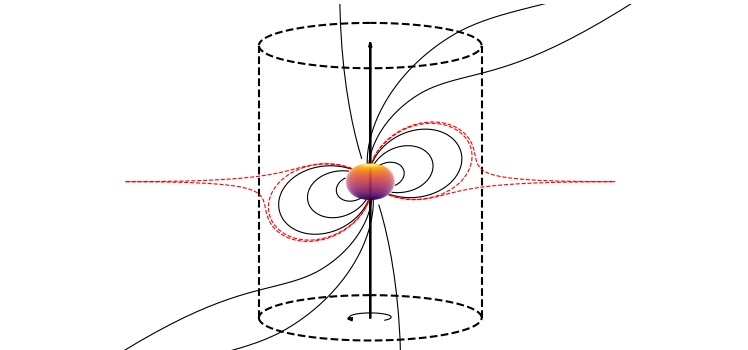
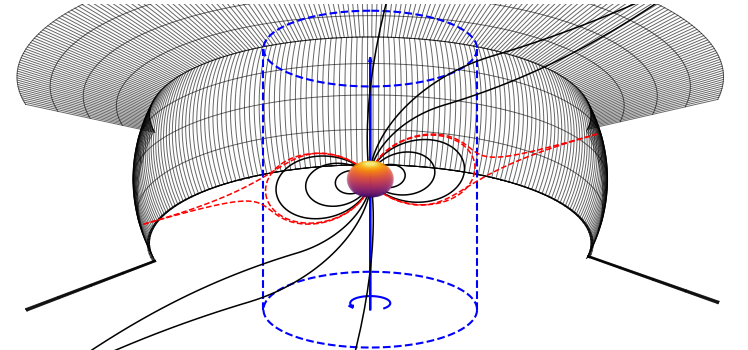
beautify disk

diff --git a/fig_pulsar.py b/fig_pulsar.py
@@ -32,10 +32,10 @@ ax.set_aspect('equal')
 #ax.set_title('Pulsar', size=18)
 
 #image dimensions
-xmin = -14.6
-xmax =  14.6
-ymin = -6.8
-ymax =  7.2
+xmin = -15.0
+xmax =  15.0
+ymin = -7.2
+ymax =  7.4
 
 xlen = xmax-xmin
 ylen = ymax-ymin
@@ -74,21 +74,6 @@ fmtO={'color':'red','linestyle':'solid',}
 # STAR
 
 if True:
-    #Nlines = 10
-    #for sweeps in np.linspace(0.0, 2.0*pi, Nlines):
-    #    ax=nspy.draw_longitude(ax, sweeps,  0.0, pi/2.0, fmt=fmt)
-    #    ax=nspy.draw_longitude(ax, sweeps,  pi/2.0, pi, fmt=fmt) #bottom
-    #
-    #    ax=nspy.draw_longitude(ax, sweeps,  0.0, pi/2.0, fmt=fmtb, backside=True)
-    #    ax=nspy.draw_longitude(ax, sweeps,  pi/2.0, pi,  fmt=fmtb, backside=True) #bottom
-    #
-    #
-    #Nlines = 10
-    #for sweeps in np.linspace(0.0, pi, Nlines):
-    #    ax=nspy.draw_latitude(ax, sweeps, fmt=fmt)
-    #    ax=nspy.draw_latitude(ax, sweeps, backside=True, fmt=fmtb)
-    
-
 
     #coloring
     if True:
@@ -105,19 +90,36 @@ if True:
             fmtS['facecolor'] = cmap(i / float(Ns-1) )
             ax = nspy.draw_spot(ax, spot_phi, spot_theta, rho, fmt=fmtS)
 
+    #draw outline
+    if False:
+        Nlines = 10
+        for sweeps in np.linspace(0.0, 2.0*pi, Nlines):
+            ax=nspy.draw_longitude(ax, sweeps,  0.0, pi/2.0, fmt=fmt)
+            ax=nspy.draw_longitude(ax, sweeps,  pi/2.0, pi, fmt=fmt) #bottom
+        
+            ax=nspy.draw_longitude(ax, sweeps,  0.0, pi/2.0, fmt=fmtb, backside=True)
+            ax=nspy.draw_longitude(ax, sweeps,  pi/2.0, pi,  fmt=fmtb, backside=True) #bottom
+        
+        
+        Nlines = 10
+        for sweeps in np.linspace(0.0, pi, Nlines):
+            ax=nspy.draw_latitude(ax, sweeps, fmt=fmt)
+            ax=nspy.draw_latitude(ax, sweeps, backside=True, fmt=fmtb)
+
 #-----------------------------------------------------
 # DISK
 
 if True:
+    fmtD={'color':'k','linestyle':'solid', 'lw': 0.7, 'alpha':0.6}
+
+
     # equatorial disk
     #slice_thick = 0.8
-    slice_thick = pi/2. - 0.4
+    slice_thick = pi/2. - 0.2
     disk_start= 0.0    + slice_thick
     disk_stop = 2.0*pi - slice_thick
     
-    
-    diskH=0.050
-    
+    diskH=0.300
     inner_disk = 10.0
     outer_disk = 16.0
     
@@ -129,6 +131,7 @@ if True:
                         r_start = inner_disk,
                         r_stop = outer_disk,
                         theta = pi/2-diskH,
+                        fmt=fmtD
                         )
     
     #disk rim
@@ -138,7 +141,21 @@ if True:
                         Nphi = 80,
                         r_start = inner_disk,
                         r_stop = inner_disk+0.1,
-                        theta = pi/2.0+diskH
+                        theta = pi/2.0+diskH,
+                        fmt=fmtD
+                        )
+
+    #interior pattern
+    ax = nspy.draw_disk_interior(
+                        ax,
+                        phi_start= disk_start,
+                        phi_stop = disk_stop,
+                        Nphi = 150,
+                        Nthe = 5,
+                        r_start = inner_disk,
+                        theta_up = pi/2.0-diskH,
+                        theta_dw = pi/2.0+diskH,
+                        fmt=fmtD
                         )
     
     #right bottom
@@ -148,7 +165,8 @@ if True:
                         Nphi = 10,
                         r_start = inner_disk,
                         r_stop = outer_disk,
-                        theta = pi/2.0+diskH
+                        theta = pi/2.0+diskH,
+                        fmt=fmtD
                         )
     
     #left bottom
@@ -158,15 +176,90 @@ if True:
                         Nphi = 10,
                         r_start = inner_disk,
                         r_stop = outer_disk,
-                        theta = pi/2.0+diskH
+                        theta = pi/2.0+diskH,
+                        fmt=fmtD
                         )
+
+# DISK WEDGES
+if False:
+
+    # equatorial disk
+    #RIGHT:
+
+    for i in [1,2]:
+        if i == 1:
+            slice_thick = 0.6
+            disk_start= pi/2.+0.2  + slice_thick
+            disk_stop = pi/2.+0.1 
+        else:
+            slice_thick = 0.6
+            disk_start= -pi/2.+0.2  + slice_thick
+            disk_stop = -pi/2.+0.1 
     
+        diskH=0.250
+        inner_disk = 10.0
+        outer_disk = 16.0
+        
+        ax = nspy.draw_disk(ax,
+                            phi_start= disk_start,
+                            phi_stop = disk_stop,
+                            Nphi = 50,
+                            r_start = inner_disk,
+                            r_stop = outer_disk,
+                            theta = pi/2-diskH,
+                            )
+        
+        #disk rim
+        ax = nspy.draw_disk(ax,
+                            phi_start= disk_start,
+                            phi_stop = disk_stop,
+                            Nphi = 80,
+                            r_start = inner_disk,
+                            r_stop = inner_disk+0.1,
+                            theta = pi/2.0+diskH
+                            )
+
+        #interior pattern
+        ax = nspy.draw_disk_interior(
+                            ax,
+                            phi_start= disk_start,
+                            phi_stop = disk_stop,
+                            Nphi = 40,
+                            Nthe = 20,
+                            r_start = inner_disk,
+                            theta_up = pi/2.0-diskH,
+                            theta_dw = pi/2.0+diskH
+                            )
+        
+        #right bottom
+        ax = nspy.draw_disk(ax,
+                            phi_start= disk_start,
+                            phi_stop = disk_start+0.02,
+                            Nphi = 10,
+                            r_start = inner_disk,
+                            r_stop = outer_disk,
+                            theta = pi/2.0+diskH
+                            )
+        
+        #left bottom
+        ax = nspy.draw_disk(ax,
+                            phi_start= disk_stop,
+                            phi_stop = disk_stop+0.02,
+                            Nphi = 10,
+                            r_start = inner_disk,
+                            r_stop = outer_disk,
+                            theta = pi/2.0+diskH
+                            )
+        
+
+
+
     
 #-----------------------------------------------------
 # Light cylinder
 
 if True:
-    fmtLC={'color':'k','linestyle':'dashed', 'lw': 1.5}
+    fmtLC={'color':'b','linestyle':'dashed', 'lw': 1.5}
 
     H   = 5.5 #cylinder height
     RLC = 4.5 #location of light cylinder   
@@ -219,7 +312,7 @@ if True:
 if True:
     obs_phi=-pi/1.5
 
-    fmta= {'color':'black', 'linestyle':'solid', 'lw':1.5, 'head_width': 0.08, 'head_length': 0.16,}
+    fmta= {'color':'b', 'linestyle':'solid', 'lw':1.5, 'head_width': 0.08, 'head_length': 0.16,}
 
     #draw xyz axis
     #ax = nspy.draw_axis(ax, obs_phi,      pi/2, rfac=1.4)
@@ -232,7 +325,7 @@ if True:
     wsize=0.15
     wheight=-8.0
     
-    ax=nspy.draw_latitude(ax, wsize, fmt=fmt, start=phistart, stop=phistop, rfac=wheight)
+    ax=nspy.draw_latitude(ax, wsize, fmt={'color':'b'}, start=phistart, stop=phistop, rfac=wheight)
     yy1=nspy.y(phistop,wsize)*wheight
     zz1=nspy.z(phistop,wsize)*wheight
     
@@ -250,10 +343,10 @@ if True:
 # B field
 
 if True:
-    fmtB={'color':'k','linestyle':'solid', 'lw': 0.8}
+    fmtB={'color':'k','linestyle':'solid', 'lw': 1.1}
 
-    phiB = pi/2.
-    theinc = pi/7.0 #pulsar inclination
+    phiB = pi/2. + 0.0
+    theinc = pi/15.0 #pulsar inclination
 
     #closed field lines
 
@@ -278,7 +371,7 @@ if True:
 
 
     #separatrix field line
-    fmtRC={'color':'r','linestyle':'dashed', 'lw': 0.8}
+    fmtRC={'color':'r','linestyle':'dashed', 'lw': 1.1}
     ax = nspy.draw_dipole_field_line(ax, RLC,phi=phiB, tinc=theinc, fmt=fmtRC)
 
     #reconnecting field lines
@@ -295,6 +388,7 @@ if True:
                 fmt=fmtRC, )
 
 
+
 plt.subplots_adjust(left=0.0, bottom=0.0, right=0.99, top=0.99, wspace=0.0, hspace=0.0)
+savefig('fig_pulsar.png')
 savefig('fig_pulsar.pdf')
-#savefig('fig_pulsar.png', bbox_inches='tight')

diff --git a/nspy.py b/nspy.py
@@ -13,7 +13,7 @@ from numba import float64
 #variables
 #incl = pi/8
 #incl = pi/2.25
-incl = pi/2.3
+incl = pi/2.6
 req = 1
 u = 0.0
 
@@ -371,6 +371,41 @@ def draw_disk(ax,
         ax.plot(xx,yy,**fmt)
 
     return ax
+
+
+def draw_disk_interior(
+              ax,
+              phi_start = 0.0,
+              phi_stop = 2*pi,
+              Nphi = 10,
+              Nthe = 10,
+              r_start = 1.2,
+              theta_up = pi/2-0.1,
+              theta_dw = pi/2+0.1,
+              fmt={'color':'k','linestyle':'solid', 'alpha':0.5}
+              ):
+
+    rfac = r_start
+
+    
+    for phi in np.linspace(phi_start, phi_stop, Nphi):
+        xx = []
+        yy = []
+        for the in np.linspace(theta_dw, theta_up, 20):
+            xx.append(y(phi,the)*rfac)
+            yy.append(z(phi,the)*rfac)
+        ax.plot(xx,yy,**fmt)
+
+    for the in np.linspace(theta_dw, theta_up, Nthe):
+        xx = []
+        yy = []
+        for phi in np.linspace(phi_start, phi_stop, 100):
+            xx.append(y(phi,the)*rfac)
+            yy.append(z(phi,the)*rfac)
+        ax.plot(xx,yy,**fmt)
+
+    return ax
+
 
 
 def draw_flow_line(ax,
@@ -735,17 +770,17 @@ def draw_reconnecting_field_line(
                     #trans = trans**3.0 #smoothen transition
                 else:
                     trans = 0.0
-
-
-            trans = trans**5.0 #sharper transition
+            trans = trans**3.0 #sharper transition
 
 
             if r1 > rmin:
                 xx1 = y(phi,theta)*r1
                 yy1 = z(phi,theta)*r1
 
-                xx2 = y(phi, np.sign(theta)*pi/2.)*RLC*(1.0 + sheet_len*trans)
-                yy2 = z(phi, np.sign(theta)*pi/2.)*RLC*(1.0 + sheet_len*trans)
+                #ref_theta = np.sign(theta)*pi/2. #equator
+                ref_theta = np.sign(theta)*pi/2. - tinc #oblique
+                xx2 = y(phi, ref_theta)*RLC*(1.0 + sheet_len*trans)
+                yy2 = z(phi, ref_theta)*RLC*(1.0 + sheet_len*trans)
 
                 xxi = (1.0-trans)*xx1 + trans*xx2
                 yyi = (1.0-trans)*yy1 + trans*yy2
@@ -808,7 +843,7 @@ def draw_open_field_line(
                     trans = 0.0
 
             #trans = np.sqrt(trans) #sharper transition
-            trans = trans**2.
+            trans = trans**1.
 
             if r1 > rmin:
                 xx1 = y(phi,theta)*r1
